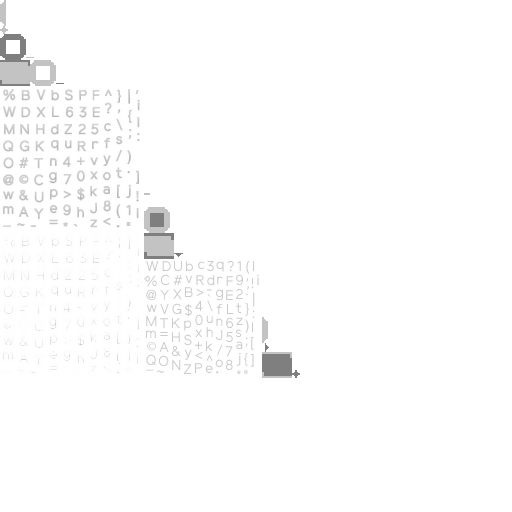
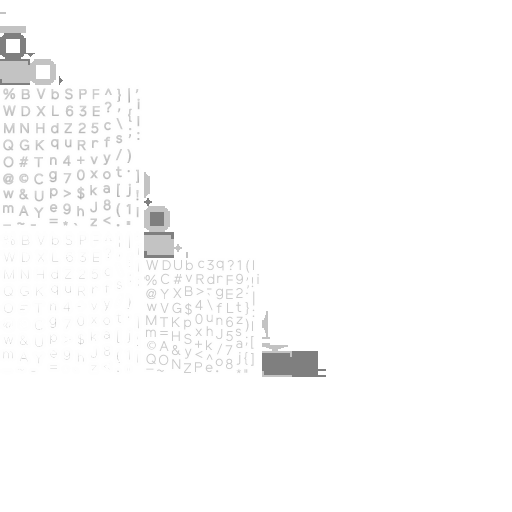
change the skin, add some controls in the builder

diff --git a/core/src/com/pignic/spacegrinder/screen/BuilderScreen.java b/core/src/com/pignic/spacegrinder/screen/BuilderScreen.java
@@ -8,6 +8,7 @@ import com.badlogic.ashley.core.Entity;
 import com.badlogic.ashley.core.PooledEngine;
 import com.badlogic.gdx.Gdx;
 import com.badlogic.gdx.Input.Buttons;
+import com.badlogic.gdx.Input.Keys;
 import com.badlogic.gdx.graphics.Camera;
 import com.badlogic.gdx.graphics.GL20;
 import com.badlogic.gdx.graphics.OrthographicCamera;
@@ -45,6 +46,7 @@ import com.pignic.spacegrinder.system.RenderSystem;
 
 public class BuilderScreen extends AbstractScreen {
 
+	private final static float cameraSpeed = 0.5f;
 	private final SpriteBatch batch;
 	private final Camera camera;
 	private Actor currentButton;
@@ -55,6 +57,7 @@ public class BuilderScreen extends AbstractScreen {
 	private final List<Entity> entities = new ArrayList<Entity>();
 	private final SpaceGrinder game;
 	private final Texture grid;
+	private final boolean[] keyState = new boolean[256];
 	private Body lastPickedBody;
 	private Table menuTable;
 	private final Vector3 mouse = new Vector3();
@@ -81,6 +84,8 @@ public class BuilderScreen extends AbstractScreen {
 
 	private final World world;
 
+	private float zoomLevel = 1;
+
 	public BuilderScreen(final SpaceGrinder game) {
 		this.game = game;
 		engine = new PooledEngine();
@@ -97,6 +102,28 @@ public class BuilderScreen extends AbstractScreen {
 		stage = new Stage() {
 
 			@Override
+			public boolean keyDown(final int keyCode) {
+				if (!super.keyDown(keyCode)) {
+					if (keyCode == Keys.DEL) {
+						if (pickedBody != null) {
+							engine.removeEntity((Entity) pickedBody.getUserData());
+							world.destroyBody(pickedBody);
+							pickedBody = null;
+							propertiesTable.setVisible(false);
+						}
+					}
+					keyState[keyCode] = true;
+				}
+				return true;
+			}
+
+			@Override
+			public boolean keyUp(final int keyCode) {
+				keyState[keyCode] = false;
+				return super.keyUp(keyCode);
+			}
+
+			@Override
 			public boolean mouseMoved(final int screenX, final int screenY) {
 				if (!super.mouseMoved(screenX, screenY)) {
 					camera.unproject(mouse.set(screenX, screenY, 0));
@@ -109,9 +136,13 @@ public class BuilderScreen extends AbstractScreen {
 
 			@Override
 			public boolean scrolled(final int amount) {
-				rotation += Math.PI * amount / 20;
 				if (mouseJoint != null && mouseJoint.getBodyB() != null) {
+					rotation += Math.PI * amount / 20;
 					mouseJoint.getBodyB().setTransform(mouseJoint.getBodyB().getWorldCenter(), rotation);
+				} else {
+					zoomLevel += 0.1 * amount;
+					camera.viewportWidth = stage.getWidth() * zoomLevel / SpaceGrinder.WORLD_SCALE;
+					camera.viewportHeight = stage.getHeight() * zoomLevel / SpaceGrinder.WORLD_SCALE;
 				}
 				return super.scrolled(amount);
 			}
@@ -261,6 +292,7 @@ public class BuilderScreen extends AbstractScreen {
 		if (paused) {
 			return;
 		}
+		update(delta);
 		camera.update();
 		batch.setProjectionMatrix(camera.combined);
 		Gdx.gl.glClear(GL20.GL_COLOR_BUFFER_BIT);
@@ -275,8 +307,8 @@ public class BuilderScreen extends AbstractScreen {
 
 	@Override
 	public void resize(final int width, final int height) {
-		camera.viewportWidth = width / SpaceGrinder.WORLD_SCALE;
-		camera.viewportHeight = height / SpaceGrinder.WORLD_SCALE;
+		camera.viewportWidth = width * zoomLevel / SpaceGrinder.WORLD_SCALE;
+		camera.viewportHeight = height * zoomLevel / SpaceGrinder.WORLD_SCALE;
 		camera.update();
 		stage.getViewport().setScreenSize(width, height);
 		stage.getViewport().setWorldSize(width, height);
@@ -318,6 +350,11 @@ public class BuilderScreen extends AbstractScreen {
 		stage.addActor(menuTable = buildMenu(this));
 		stage.addActor(propertiesTable = buildProperties(this));
 		Gdx.input.setInputProcessor(stage);
+	}
+
+	private void update(final float delta) {
+		camera.position.add(((keyState[Keys.LEFT] ? -1 : 0) + (keyState[Keys.RIGHT] ? 1 : 0)) * cameraSpeed * zoomLevel,
+				((keyState[Keys.UP] ? 1 : 0) + (keyState[Keys.DOWN] ? -1 : 0)) * cameraSpeed * zoomLevel, 0);
 	}
 
 }

diff --git a/core/src/com/pignic/spacegrinder/system/ControlSystem.java b/core/src/com/pignic/spacegrinder/system/ControlSystem.java
@@ -28,22 +28,23 @@ public class ControlSystem extends IteratingSystem {
 	protected void processEntity(final Entity entity, final float deltaTime) {
 		final Controllable c = Mapper.controllable.get(entity);
 		for (final Binding binding : c.getBindings()) {
-			final Physical p = Mapper.physical.get(entity);
-			final Particle part = Mapper.particle.get(entity);
+			final Physical physical = Mapper.physical.get(entity);
+			final Particle particle = Mapper.particle.get(entity);
 			if (Gdx.input.isKeyPressed(binding.getKeycode())) {
 				if (c.getAction().equals(ACTION.THRUST)) {
 					// p.getBody().applyLinearImpulse(
 					// p.getBody().getWorldVector(new Vector2(1, 0).scl(binding.getAmount() / 100f)),
 					// p.getBody().getWorldCenter(), true);
-					p.getBody().applyForceToCenter(
-							p.getBody().getWorldVector(new Vector2(1, 0).scl(binding.getAmount())), false);
-					if (part != null) {
-						part.setActive(true);
+					physical.getBody().applyForceToCenter(
+							physical.getBody().getWorldVector(new Vector2(1, 0).scl(binding.getAmount())), false);
+					if (particle != null) {
+						particle.setActive(true);
+						particle.setScale(binding.getAmount() / c.getMaxAmout() * 3);
 					}
 				}
 			} else {
 				if (c.getAction().equals(ACTION.THRUST)) {
-					part.setActive(false);
+					particle.setActive(false);
 				}
 			}
 		}

diff --git a/core/src/com/pignic/spacegrinder/component/Particle.java b/core/src/com/pignic/spacegrinder/component/Particle.java
@@ -29,6 +29,8 @@ public class Particle implements Component {
 
 	private float rotation = 0;
 
+	private float scale = 1;
+
 	public Particle(final EFFECT effect) {
 		if (effects.size() <= 0) {
 			effects.put(EFFECT.THRUSTER, new ParticleEffect());
@@ -55,6 +57,10 @@ public class Particle implements Component {
 		return rotation;
 	}
 
+	public float getScale() {
+		return scale;
+	}
+
 	public boolean isActive() {
 		return active;
 	}
@@ -76,6 +82,10 @@ public class Particle implements Component {
 
 	public void setRotation(final float rotation) {
 		this.rotation = rotation;
+	}
+
+	public void setScale(final float scale) {
+		this.scale = scale;
 	}
 
 	public boolean toggle() {

diff --git a/core/src/com/pignic/spacegrinder/system/RenderSystem.java b/core/src/com/pignic/spacegrinder/system/RenderSystem.java
@@ -46,6 +46,8 @@ public class RenderSystem extends SortedIteratingSystem {
 			final ScaledNumericValue angle = emitter.getAngle();
 			angle.setLow((float) Math.toDegrees(position.getAngle() + particle.getRotation()));
 			angle.setHigh((float) Math.toDegrees(position.getAngle() + particle.getRotation()));
+			emitter.getScale().setHigh(particle.getScale());
+			emitter.getScale().setLow(particle.getScale());
 			emitter.draw(batch, deltaTime);
 		}
 		if (renderable != null) {

diff --git a/core/src/com/pignic/spacegrinder/component/Container.java b/core/src/com/pignic/spacegrinder/component/Container.java
@@ -1,0 +1,16 @@
+package com.pignic.spacegrinder.component;
+
+import com.badlogic.ashley.core.Component;
+
+public class Container implements Component {
+
+	private float volume = 0;
+
+	public Container(final float volume) {
+		this.volume = volume;
+	}
+
+	public float getVolume() {
+		return volume;
+	}
+}

diff --git a/core/src/com/pignic/spacegrinder/component/Controllable.java b/core/src/com/pignic/spacegrinder/component/Controllable.java
@@ -144,10 +144,15 @@ public class Controllable extends Configurable implements Component {
 			}
 		});
 		table.add(addButton);
+		table.row();
 		for (final Binding binding : bindings) {
 			addBindingRow(table, binding);
 		}
 		return table;
+	}
+
+	public float getMaxAmout() {
+		return maxAmout;
 	}
 
 }
